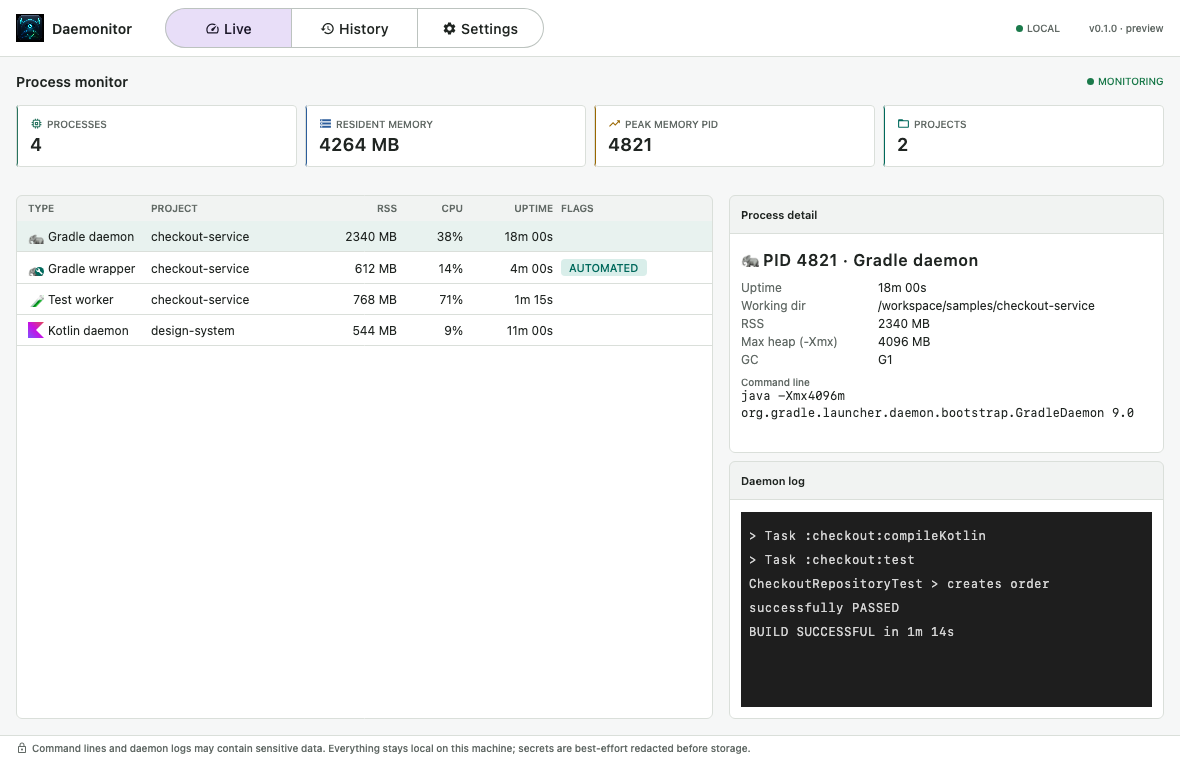
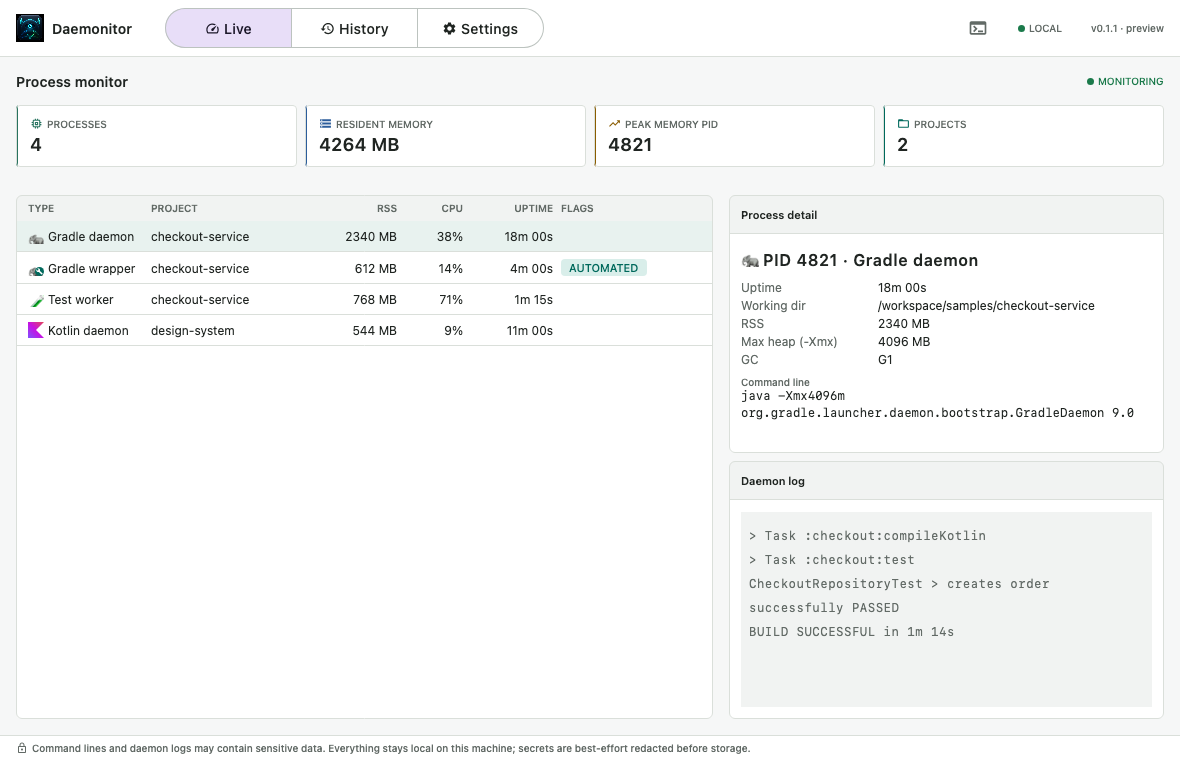
chore: prepare headless release docs

Changed region(s): [[0.6102, 0.6658, 0.9763, 0.9382], [0.8237, 0.0303, 0.9763, 0.0605]]

diff --git a/src/test/kotlin/io/github/cdsap/daemonitor/docs/ReadmeScreenshotsTest.kt b/src/test/kotlin/io/github/cdsap/daemonitor/docs/ReadmeScreenshotsTest.kt
@@ -15,7 +15,7 @@ class ReadmeScreenshotsTest {
     @Test
     fun `README screenshots are native-size PNGs with meaningful alt text`() {
         val screenshots = mapOf(
-            "docs/images/live-monitor.png" to "Daemonitor Live monitor showing active Gradle processes, metrics, status badges, and process details",
+            "docs/images/live-monitor.png" to "Daemonitor Live monitor showing active Gradle processes, metrics, status badges, process details, and the headless toolbar action",
             "docs/images/build-history.png" to "Daemonitor build history showing status and source tags, agent attribution, metrics, and build details",
         )
 

diff --git a/src/test/kotlin/io/github/cdsap/daemonitor/docs/ReadmeScreenshotCapture.kt b/src/test/kotlin/io/github/cdsap/daemonitor/docs/ReadmeScreenshotCapture.kt
@@ -42,7 +42,7 @@ import kotlin.test.Test
 @Tag("documentation")
 class ReadmeScreenshotCapture {
     private val outputDirectory = Path.of("docs", "images")
-    private val buildInfo = BuildInfo(version = "0.1.0", commit = "preview")
+    private val buildInfo = BuildInfo(version = "0.1.1", commit = "preview")
 
     @Test
     fun captureLive() = capture("live-monitor.png") {

diff --git a/src/test/kotlin/io/github/cdsap/daemonitor/BuildInfoTest.kt b/src/test/kotlin/io/github/cdsap/daemonitor/BuildInfoTest.kt
@@ -9,7 +9,7 @@ class BuildInfoTest {
     fun `loads version and commit generated by the build`() {
         val buildInfo = BuildInfo.current
 
-        assertEquals("0.1.0", buildInfo.version)
+        assertEquals("0.1.1", buildInfo.version)
         assertTrue(buildInfo.commit.matches(Regex("[0-9a-f]{7,40}|unknown")), buildInfo.commit)
     }
 }

diff --git a/README.md b/README.md
@@ -24,7 +24,7 @@ best-effort redacted before they're ever stored.
 
 ### Live Monitor
 
-![Daemonitor Live monitor showing active Gradle processes, metrics, status badges, and process details](docs/images/live-monitor.png)
+![Daemonitor Live monitor showing active Gradle processes, metrics, status badges, process details, and the headless toolbar action](docs/images/live-monitor.png)
 
 *Live monitor with concurrent Gradle activity and the selected daemon inspector.*
 
@@ -34,6 +34,7 @@ best-effort redacted before they're ever stored.
 - Headline stats: active processes, total RSS, highest-memory PID, active projects
 - Highlight badges: high/critical memory, `MULTI-BUILD` (a project with concurrent build invocations), `AUTOMATED` (CI/script/agent flags)
 - Per-daemon detail with `-Xmx`, GC, working dir, full (redacted) command line, and a live tail of the daemon log
+- One-click switch to headless mode from the toolbar when you want collection to continue without the desktop window
 
 ### Historical
 
@@ -47,6 +48,14 @@ best-effort redacted before they're ever stored.
 
 ### Settings
 - Configurable **history retention** (default **15 days**, range 1–90). Lowering it purges out-of-range entries immediately.
+
+### Headless collection
+
+Daemonitor can keep collecting in the background without the desktop window. Use the toolbar action
+to switch from desktop to headless mode, or start it directly with `--headless`. Packaged headless
+mode uses the same local database and settings as the desktop app, shows a system tray/menu-bar icon
+when the OS supports it, and offers **Open Daemonitor** and **Quit Daemonitor** actions from that
+menu.
 
 ### AI-agent attribution
 Daemonitor fingerprints the coding agent behind a build from the environment-variable *names* the
@@ -62,6 +71,8 @@ is Claude."
 
 ## Requirements
 
+- **JDK 17+** to run Gradle from source. The build uses a Java 21 toolchain, which Gradle
+  auto-provisions when a local Java 21 installation is unavailable.
 - macOS, Linux, or Windows
 - Permission to read your own process list and Gradle daemon logs
 
@@ -83,7 +94,8 @@ metadata and Gradle daemon logs for the current user.
 
 ## Run from source
 
-Source builds require **JDK 21** because the Kotlin build is pinned to a Java 21 toolchain.
+Source builds require **JDK 17+** to launch Gradle; the pinned Java 21 toolchain is provisioned
+automatically when it is not installed locally.
 
 ```bash
 ./gradlew run
@@ -96,8 +108,9 @@ To collect and persist data without starting Compose or requiring a display serv
 ```
 
 Packaged launchers also accept `--headless`. Headless and desktop modes use the same local database
-and retention setting. Stop the collector with `Ctrl+C` or the service manager's normal termination
-signal.
+and retention setting. On desktop operating systems, the tray/menu-bar icon can reopen Daemonitor or
+quit the collector. Stop source-run headless mode with `Ctrl+C` or the service manager's normal
+termination signal.
 
 ## Build a native distribution
 
@@ -168,5 +181,5 @@ permissions. Daemonitor never makes network requests.
 
 ## Status
 
-Early (v0.1.0). The data model and detection heuristics are evolving; see `requirements.md` for the
+Early (v0.1.1). The data model and detection heuristics are evolving; see `requirements.md` for the
 original specification.
